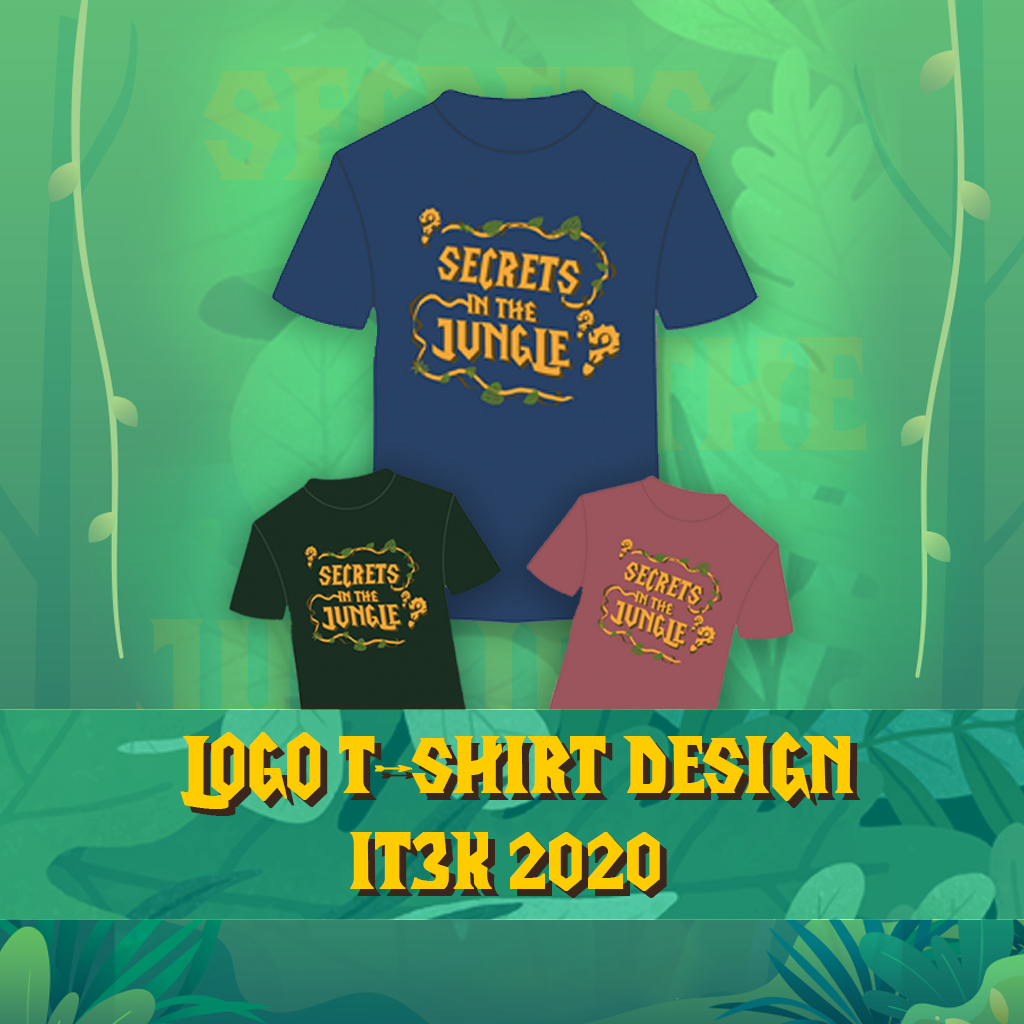
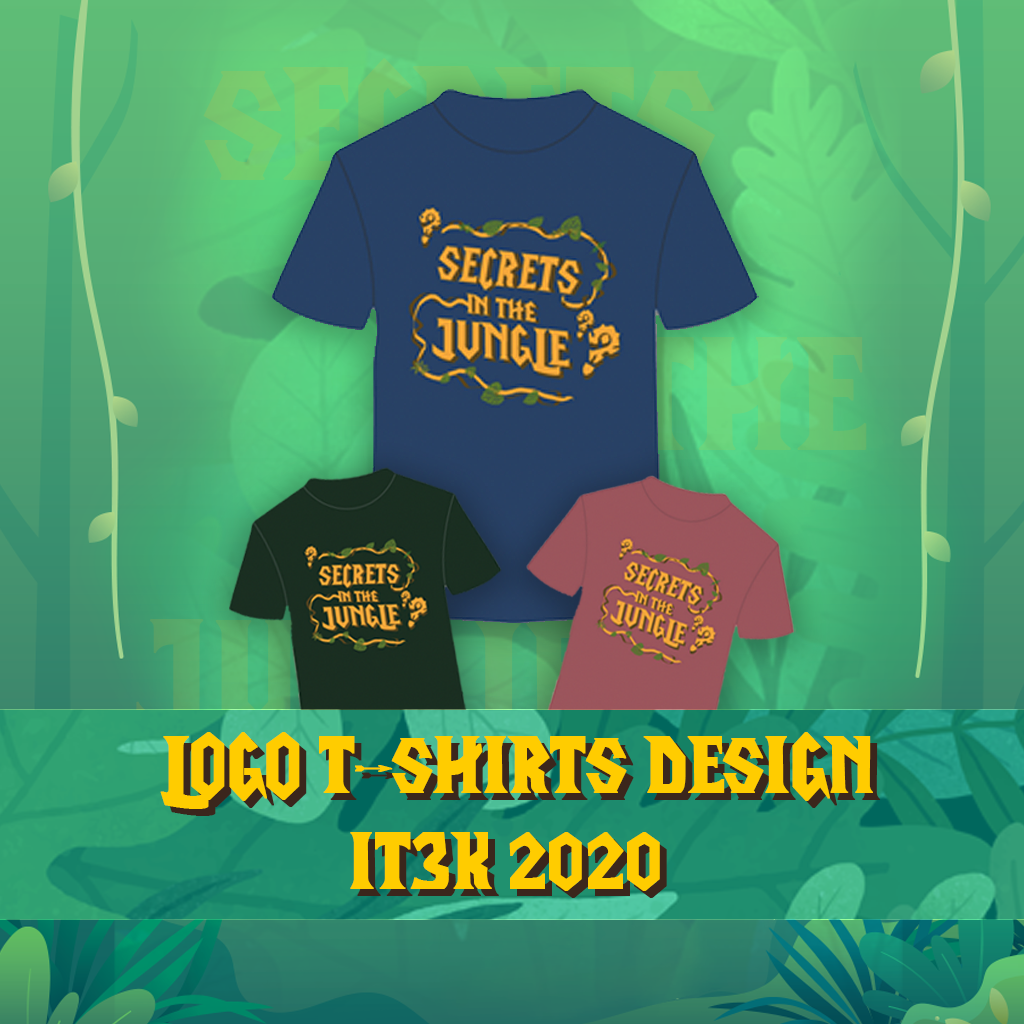
edit index resume link

Changed region(s): [[0.1562, 0.7188, 0.875, 0.8125]]

diff --git a/logoit3k_t-shirt.html b/logoit3k_t-shirt.html
@@ -107,7 +107,7 @@ https://templatemo.com/tm-565-onix-digital
         </div>
         <div class="col-lg-6">
           <div class="section-heading mt-3" style="margin: 6px;">
-            <h2 style="margin: 5px;"><span>LOGO T-SHIRT DESIGN FOR </span></h2>
+            <h2 style="margin: 5px;"><span>LOGO T-SHIRTS DESIGN FOR </span></h2>
             <h2 style="margin: 5px;"><em>IT3K 2020</em> </h2>
             <p class="mt-4" style="margin: 5px;">IT3K is a sports event of 3 King Mongkut's institution also known as 3K, It is a sports competition of 3K IT students which will be held every year. , 3K is 3 universities which are King Mongkut's University of Technology Thonburi (KMUTT) , King Mongkut's University of Technology North Bangkok (KMUTNB) , King Mongkut's Institute of Technology Ladkrabang (KMITL)</p>            </div>
           </div>
@@ -134,7 +134,7 @@ https://templatemo.com/tm-565-onix-digital
       <div class="row">
         <div class="col">
           <div class="section-heading ">
-            <h3 class="mt-5 mb-4" style="margin-left: 6px;">Color of T-shirt</h3>
+            <h3 class="mt-5 mb-4" style="margin-left: 6px;">Color of T-shirts</h3>
             <img src="assets/images/T-shirt_KMUTT copy.jpg">
             <img src="assets/images/T-shirt_KMUTNB copy.jpg">
             <img src="assets/images/T-shirt_KMITL copy.jpg">
